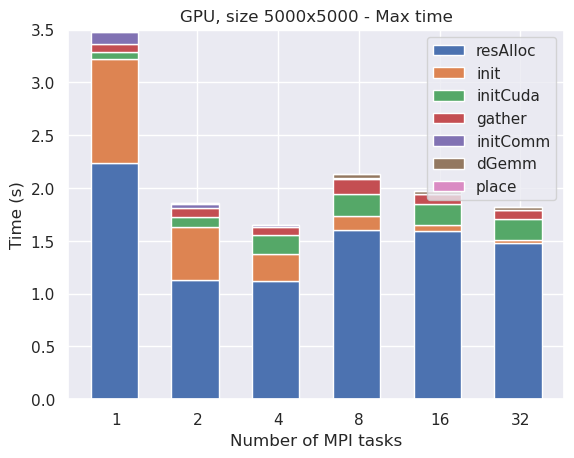
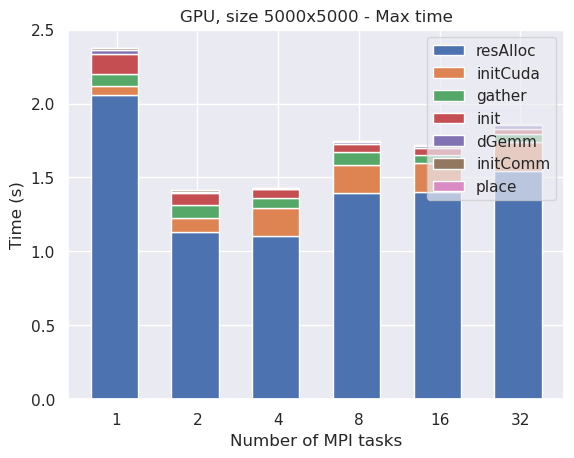
Updated plots and Readmes with new data

diff --git a/Distributed_MatMul/main.c b/Distributed_MatMul/main.c
@@ -117,9 +117,11 @@ int main(int argc, char** argv)
             start(&t);
             cublasDgemm(handle, CUBLAS_OP_N, CUBLAS_OP_N, nColumnsBblock, myNRows,
                     N, &alpha, columnB_dev, nColumnsBblock, A_dev, N, &beta, myCBlock_dev, nColumnsBblock);
+            cudaDeviceSynchronize();
             t.dgemm += end(&t);
             start(&t);
             placeBlockInMatrixKernel<<<numBlocks, threadsPerBlock>>>(myCBlock_dev, C_dev, myNRows, nColumnsBblock, N, startPoint);
+            cudaDeviceSynchronize();
             t.place += end(&t);
         #elif defined(CBLAS)
             start(&t);

diff --git a/Jacobi/README.md b/Jacobi/README.md
@@ -27,7 +27,7 @@ $$
 \nabla^2 V = 0
 $$
 
-where $V$ is the unknown function of the spatial coordinates $x$, $y$, and $z$. The Laplace equation is named after Pierre-Simon Laplace, who first studied its properties. Solutions of Laplace's equation are called harmonic functions and are important in many areas of physics, including the study of electromagnetic fields, heat conduction and fluid dynamics. In two dimensions, Laplace's equation is given by
+where $V$ is the unknown function of the spatial coordinates $x$, $y$, and $z$, and $\nabla^2$ is the Laplace operator. The Laplace equation is named after Pierre-Simon Laplace, who first studied its properties. Solutions of Laplace's equation are called harmonic functions and are important in many areas of physics, including the study of electromagnetic fields, heat conduction and fluid dynamics. In two dimensions, Laplace's equation is given by
 
 $$
 \frac{\partial^2 V}{\partial x^2} + \frac{\partial^2 V}{\partial y^2} = 0
@@ -46,7 +46,7 @@ $$
 V_{i,j}^{k+1} = \frac{1}{4} \left( V_{i-1,j}^k + V_{i+1,j}^k + V_{i,j-1}^k + V_{i,j+1}^k \right)
 $$
 
-- Swap the pointers of the two matrices and repeat until a desired convergence criterion is met.
+- Swap the pointers of the two matrices and repeat points 2 and 3 until a desired convergence criterion is met.
 
 The following gif shows the evolution of the matrix during 100 iterations:
 
@@ -56,7 +56,7 @@ The following gif shows the evolution of the matrix during 100 iterations:
 
 Since at each iteration each point is updated independently on the others (we only need their old value, which is constant during the update), this algorithm clearly opens the door to parallelization: each process can be assigned a subgrid of the domain, and the communication between processes is only needed at the boundaries of the subgrids.
 
-In this assignment, we will consider the domain to be distributed by rows among multiple MPI processes, hence each process will have a subgrid with a fixed number of rows of the entire grid (equal to the number of rows of the entire grid divided by the number of processes, plus two more rows, one above and one below, that will be needed to perform the update). Since in general the number of rows of the grid is not divisible by the number of processes, some processes will actually have one more row than the others:
+In this assignment, we will consider the domain to be distributed by rows among multiple MPI processes, hence each process will have a subgrid with a fixed number of rows of the entire grid (equal to the total number of rows divided by the number of processes, plus two more rows, one above and one below, that will be needed to perform the update). Since in general the number of rows of the grid is not divisible by the number of processes, some processes will actually have one more row than the others:
 
 ![worksharing](imgs/worksharing.png)
 
@@ -64,13 +64,13 @@ For example, if `dim`$=9$ and `NPEs`$=3$, we have the situation showed in the fo
 
 ![sendrecgraph](imgs/sendrecgraph.png)
 
-The idea to compute the solution is the following: each process will have two submatrices with `myWorkSize` rows plus 2 ghost rows more, one above and one below, to perform the update (which only happens for the internal points: neighbor processes will deal with boundaries update). Each process only initializes and updates the internal rows of the submatrices, and then exchanges the boundary rows with the neighbor processes. More precisely, each process first initializes its own submatrices and then continuously:
+The idea to compute the solution is the following: each process will have two submatrices with `myWorkSize = 9/3 + 0 + 2 = 5` rows, also considering the 2 ghost rows, one above and one below, to perform the update. Each process only initializes and updates the internal rows of one submatrix, and then exchanges the boundary rows with the neighbor processes. More precisely, each process first initializes its own submatrices and then continuously:
 
 - updates the values of the internal points (hence excluding its first and last row and the first and last column) of one submatrix using the values from the other one:
   
   ![update](imgs/update.png)
 
-- updates the boundaries: it sends its second row to the upper process and its semilast row to the lower one, and receives its last row from the lower process and its first row from the upper one. First (last) process will only send and receive one row, since its first (last) row is a fixed boundary condition:
+- updates the boundaries: it sends its second row to the upper process and its semilast row to the lower one, and receives its first row from the upper process and its last row from the lower one (first and last process only put a single row, since the other one is a fixed boundary condition):
   
   ![sendrec](imgs/sendrec.png)
 
@@ -189,4 +189,4 @@ Binary files output/solution0.dat and original_code/solution.dat differ
 ```
 Note: to directly compare the two files without having to worry about precision issues, the original code `save_gnuplot` function has been modified to save binary files; this is the only change that has been performed on it.
 
->**Note**: MPI-IO writes binary files and does not truncate the file on which it'll write if it already exists: if you want to run the program with a size which is smaller than the previous one, delete the `solution.dat` file before running, in order to generate it from scratch instead of overwriting it. `compare%pu` targets are already provided with an internal `clean`, in order to repeatedly compare results without having to worry about non-truncated files.
+>**Note**: MPI-IO writes binary files and does not truncate the file on which it'll write if it already exists: if you want to run the program with a size which is smaller than the previous one, `make clean` or empty the `output` folder before running, in order to generate it from scratch instead of overwriting it. `compare%pu` targets are already provided with an internal `clean`, in order to repeatedly compare results without having to worry about non-truncated files.

diff --git a/Jacobi-OneSide/README.md b/Jacobi-OneSide/README.md
@@ -4,8 +4,7 @@
 - [Introduction](#introduction)
 - [Jacobi's algorithm](#jacobis-algorithm)
 - [Distribute the domain: MPI](#distribute-the-domain-mpi)
-- [Final results](#final-results)
-  - [Results](#results)
+- [Results](#results)
   - [Save time](#save-time)
 - [How to run](#how-to-run)
 - [Check correctness](#check-correctness)
@@ -24,7 +23,7 @@ $$
 \nabla^2 V = 0
 $$
 
-where $V$ is the unknown function of the spatial coordinates $x$, $y$, and $z$. The Laplace equation is named after Pierre-Simon Laplace, who first studied its properties. Solutions of Laplace's equation are called harmonic functions and are important in many areas of physics, including the study of electromagnetic fields, heat conduction and fluid dynamics. In two dimensions, Laplace's equation is given by
+where $V$ is the unknown function of the spatial coordinates $x$, $y$, and $z$, and $\nabla^2$ is the Laplace operator. The Laplace equation is named after Pierre-Simon Laplace, who first studied its properties. Solutions of Laplace's equation are called harmonic functions and are important in many areas of physics, including the study of electromagnetic fields, heat conduction and fluid dynamics. In two dimensions, Laplace's equation is given by
 
 $$
 \frac{\partial^2 V}{\partial x^2} + \frac{\partial^2 V}{\partial y^2} = 0
@@ -52,23 +51,23 @@ The following gif shows the evolution of the matrix during 100 iterations:
 
 Since at each iteration each point is updated independently on the others (we only need their old value, which is constant during the update), this algorithm clearly opens the door to parallelization: each process can be assigned a subgrid of the domain, and the communication between processes is only needed at the boundaries of the subgrids.
 
-In this assignment, we will consider the domain to be distributed by rows among multiple MPI processes, hence each process will have a subgrid with a fixed number of rows of the entire grid (equal to the number of rows of the entire grid divided by the number of processes), and **two more rows**, needed to perform the update, open for the other processes to access and update them through the use of two `MPI_Win` objects. Since in general the number of rows of the grid is not divisible by the number of processes, some processes will actually have one more row than the others.
+In this assignment, we will consider the domain to be distributed by rows among multiple MPI processes, hence each process will have a subgrid with a fixed number of rows of the entire grid (equal to the total number of rows divided by the number of processes), and **two more rows**, needed to perform the update, open for the other processes to access and update them through the use of two `MPI_Win` objects. Since in general the number of rows of the grid is not divisible by the number of processes, some processes will actually have one more row than the others.
 
 For example, if `dim`$=9$ and `NPEs`$=3$, we have the situation showed in the following picture:
 
 ![sendrecgraph](imgs/sendrecgraph.png)
 
-The idea to compute the solution is the following: each process has two submatrices with `myWorkSize` rows, and 2 more rows to perform the update. Each process only initializes and updates its submatrices, and then puts the updated rows inside the neighbor processes' windows. More precisely, each process first initializes its own submatrices and its extra rows, and then continuously:
+The idea to compute the solution is the following: each process has two submatrices with `myWorkSize = 9/3 + 0 = 3` rows, and 2 more rows to perform the update. Each process only initializes and updates one submatrix and then puts its first and last row inside the neighbor processes' windows. More precisely, each process first initializes its own submatrices and its extra rows, and then continuously:
 
-- updates the internal points of one of the two submatrices using the values from the other one:
+- updates the values of the internal points of one submatrix (hence excluding its first and last row and the first and last column) using the values from the other one:
   
   ![update](imgs/update.png)
 
-- updates the first and last row of the submatrix, using the extra rows:
+- updates the first and last row of the same submatrix, using the other one and the extra rows:
   
   ![updatebound](imgs/updatebound.png)
 
-- puts the first row of the submatrix inside the upper process' second window and the last row of the submatrix inside the lower process' first one. First and last process only put a single row, since the other one is a fixed boundary condition:
+- puts the first row of the submatrix inside the upper process' second window and the last row of the submatrix inside the lower process' first one (first and last process only put a single row, since the other one is a fixed boundary condition):
   
   ![put](imgs/put.png)
 
@@ -76,7 +75,7 @@ The idea to compute the solution is the following: each process has two submatri
 
 until a desired convergence criterion is met.
 
-## Final results
+## Results
 
 In this section we will analyze the performances obtained by the algorithm. The code has been run on the Leonardo cluster, with up to 16 MPI tasks allocated one per node. The execution time has been measured with the `MPI_Wtime` function. The tests have been done with a matrix of size 1200x1200 and 12000x12000, with 10 evolution iterations, and 40000x40000, with 1000 iterations, to better study the scalability. The maximum time among all the MPI processes has been plotted. However, I have also collected data regarding the average time and they have showed the same behavior, meaning the workload is correctly distributed among the processes, for this reason they have not been plotted.
 
@@ -86,8 +85,6 @@ To easily identify the different parts of the code and plot them I have used som
 - `update`: total time spent on updating the matrix;
 - `comm` total time spent on updating the extra rows;
 - `save`: save the matrix on file using MPI-IO.
-
-### Results
 
 ![cpu1200](imgs/results/120010.png)
 

diff --git a/Distributed_MatMul/README.md b/Distributed_MatMul/README.md
@@ -3,8 +3,8 @@
 ## Table of Contents <!-- omit in toc -->
 - [Introduction](#introduction)
 - [Matrix-Matrix Multiplication using MPI](#matrix-matrix-multiplication-using-mpi)
-- [Basic version](#basic-version)
-- [Improved CPU version](#improved-cpu-version)
+- [CPU baseline: naive algorithm](#cpu-baseline-naive-algorithm)
+- [CPU improvement: BLAS](#cpu-improvement-blas)
 - [GPU version](#gpu-version)
 - [Results](#results)
   - [CPU - Naive](#cpu---naive)
@@ -148,40 +148,31 @@ Finally, let's analyze the GPU version: first of all, let's see the results for 
 
 ![gpu5000](imgs/results/gpu5000all.png)
 
-As we can see, the most time consuming part of the code is `resAlloc`, this means we are spending most of the time in moving the matrices from CPU to GPU and back. `init` seems to behave as in the CPU case, which is totally expected since it is done on CPU. Let's have a deeper look at the other parts of the code:
+As we can see, the most time consuming part of the code is `resAlloc`, this means we are spending most of the time in moving the matrices from CPU to GPU and back: the matrices are far too small to expect a good speedup from the GPU. 
 
-![gpu5000](imgs/results/gpu5000noinit.png)
+Let's increase  the matrix size:
 
-Also `initComm` and `gather` behave as in the CPU case as expected, and `place` time is practically zero, as it is done on the GPU.
+![gpu10000](imgs/results/gpu10kall.png)
+
+More or less the same results as before, but we can start to appreciate a bit of speedup. 
 
 Let's now analyze the results for the 45000x45000 matrices:
 
-![gpuall](imgs/results/gpuall.png)
+![gpu45000](imgs/results/gpu45kall.png)
 
-By looking at the results of the measurements, we immediately spot three things:
-- the most time consuming part of the code is now `init`, which is expected since it is done on CPU;
-- `resAlloc` time is the second most time consuming part of the code;
-- `dGemm` time is insignificant with respect to the other parts.
-
-Let's try to remove `init`:
-
-![gpunoinit](imgs/results/gpuNoinit.png)
-
-As we can see, `resAlloc` time is quite relevant. One thing that is worth to notice is the fact that it scales almost perfectly up to 4 MPI tasks, but then the speedup basically stops (while the same does not happen to `init` and `initComm`). This is explainable by taking into consideration the fact that a single node of Leonardo's boost partition has 4 GPUs, hence by using up to 4 MPI tasks we are allocating everything in the same node, while using 8, 16, 32 tasks we are asking for 2, 4, 8 nodes and the communication time needed to allocate memory will not be negligible. `init` and `initComm` time, instead, are only performed on CPU and are not affected by the number of available GPUs.
-
-Let's remove `resAlloc` as well to see how the other parts behave:
-
-![gpunoresalloc](imgs/results/gpuNoresalloc.png)
-
-`gather` and `initComm` time show the same behavior as in the previous cases, and the only remaining visible part is now `initCuda`. Notice that `place` time is practically zero as it is done on the GPU.
+By looking at the results of the measurements, we immediately spot two things:
+- `init` and `dGemm` take nearly the same time, although the latter is much more computationally intensive than the former, since `init` is performed on the CPU, while `dGemm` is performed on the GPU;
+- `gather` and `resAlloc` are less impactant than in the previous cases, but still quite relevant, especially with 16 and 32 MPI tasks (corresponding to 4 and 8 nodes).
 
 ### Comparison
 
 Let's compare the results obtained by the three algorithms:
 
-![comp](imgs/results/comparison5000.png)
+![comp](imgs/results/comparison5k.png)
 
-![comp](imgs/results/comparison10000.png) 
+![comp](imgs/results/comparison10k.png) 
+
+![comp](imgs/results/comparison45k.png)
 
 ## How to run
 
